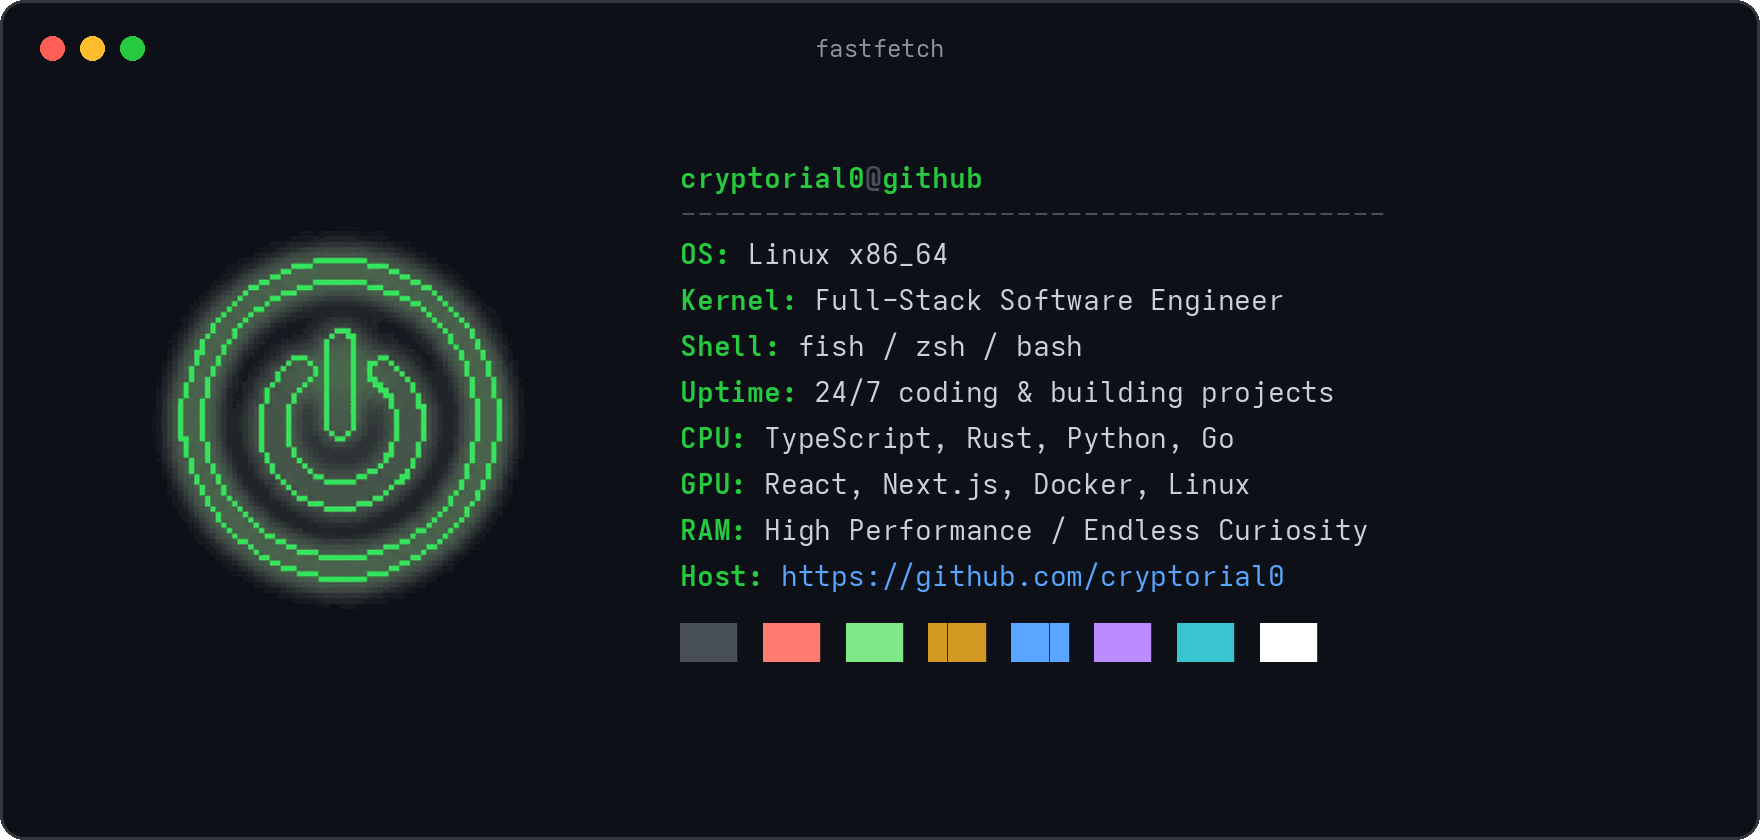
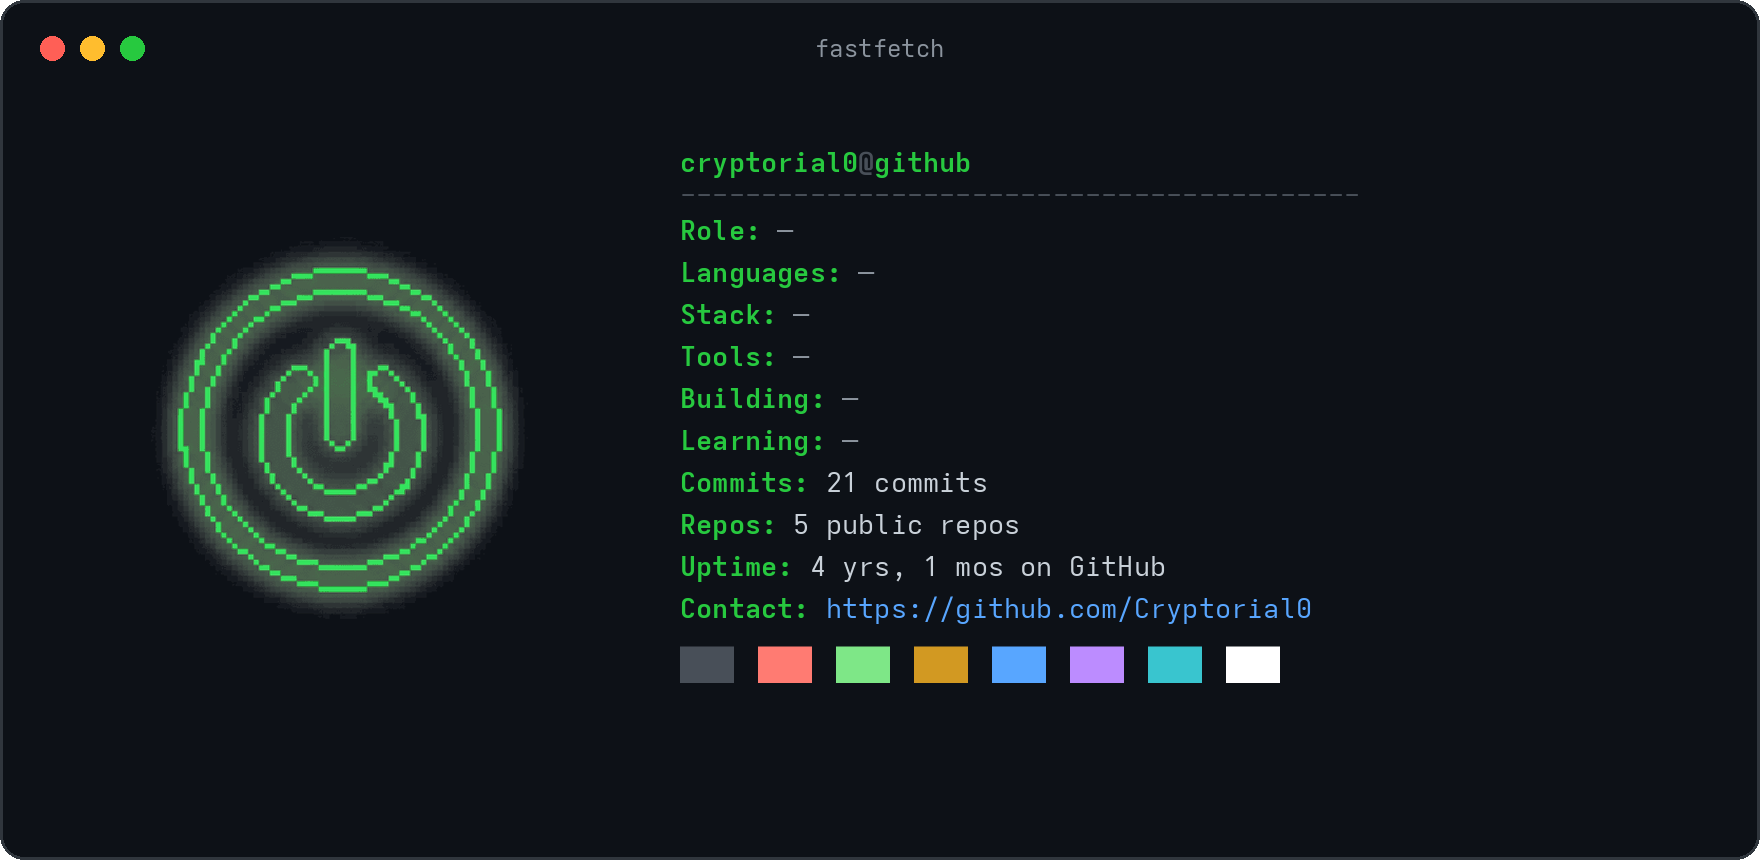
feat: add auto-updating commits & github stats with daily GitHub Action workflow

diff --git a/generate_card.py b/generate_card.py
@@ -1,18 +1,69 @@
+import os
+import json
+import urllib.request
+import datetime
 from PIL import Image, ImageDraw, ImageFont
 import numpy as np
 
-# 1. Process logo: convert black pixels to transparent alpha so the neon glow blends smoothly
+# ================= USER CONFIGURATION ================= #
+# Fill in any fields you want (or leave them empty):
+ROLE        = ""   # e.g. "Full-Stack Software Engineer"
+LANGUAGES   = ""   # e.g. "TypeScript, Python, Rust, Go"
+STACK       = ""   # e.g. "React, Next.js, Node.js, Tailwind"
+TOOLS       = ""   # e.g. "Linux, Docker, Neovim, Git"
+BUILDING    = ""   # e.g. "Open source developer tools"
+LEARNING    = ""   # e.g. "Distributed Systems & AI Agents"
+CONTACT     = ""   # e.g. "your_email@domain.com"
+# ====================================================== #
+
+# 1. Fetch live GitHub statistics
+USERNAME = "Cryptorial0"
+headers = {'User-Agent': 'fastfetch-generator'}
+token = os.environ.get('GITHUB_TOKEN')
+if token:
+    headers['Authorization'] = f'Bearer {token}'
+
+# Default fallback values
+public_repos = "5"
+total_commits = "21"
+uptime_str = "4 years"
+
+try:
+    user_url = f"https://api.github.com/users/{USERNAME}"
+    req = urllib.request.Request(user_url, headers=headers)
+    with urllib.request.urlopen(req, timeout=5) as resp:
+        user_data = json.loads(resp.read().decode())
+        public_repos = str(user_data.get('public_repos', public_repos))
+        
+        # Calculate uptime from join date
+        created_at_str = user_data.get('created_at')
+        if created_at_str:
+            created_at = datetime.datetime.strptime(created_at_str, "%Y-%m-%dT%H:%M:%SZ")
+            now = datetime.datetime.utcnow()
+            days = (now - created_at).days
+            years = days // 365
+            months = (days % 365) // 30
+            uptime_str = f"{years} yrs, {months} mos on GitHub"
+
+    # Commit count
+    commits_url = f"https://api.github.com/search/commits?q=author:{USERNAME}"
+    req_c = urllib.request.Request(commits_url, headers={**headers, 'Accept': 'application/vnd.github.cloak-preview'})
+    with urllib.request.urlopen(req_c, timeout=5) as resp_c:
+        commits_data = json.loads(resp_c.read().decode())
+        total_commits = f"{commits_data.get('total_count', total_commits):,}"
+except Exception as e:
+    print(f"Warning fetching live GitHub stats: {e}")
+
+# 2. Process Logo with alpha transparency for green glow
 logo = Image.open('logo512.png').convert('RGBA')
 arr = np.array(logo, dtype=np.float32)
 r, g, b = arr[..., 0], arr[..., 1], arr[..., 2]
 brightness = np.maximum(g, np.maximum(r, b))
-
-# Set alpha based on brightness: black background (0) becomes 0 alpha
 arr[..., 3] = np.clip(brightness * 1.6, 0, 255)
 logo_transparent = Image.fromarray(arr.astype(np.uint8), mode='RGBA')
 
-# 2. Canvas size (2x retina: 1760 x 840)
-W, H = 1760, 840
+# 3. Canvas setup (2x retina: 1760 x 860)
+W, H = 1760, 860
 img = Image.new('RGBA', (W, H), (0, 0, 0, 0))
 draw = ImageDraw.Draw(img)
 
@@ -27,24 +78,24 @@ draw.ellipse([120, 36, 144, 60], fill='#27c93f')
 # Header Title font
 try:
     font_header = ImageFont.truetype('/usr/share/fonts/Adwaita/AdwaitaMono-Regular.ttf', 24)
-    font_bold = ImageFont.truetype('/usr/share/fonts/Adwaita/AdwaitaMono-Bold.ttf', 28)
-    font_regular = ImageFont.truetype('/usr/share/fonts/Adwaita/AdwaitaMono-Regular.ttf', 28)
-    font_blocks = ImageFont.truetype('/usr/share/fonts/noto/NotoSansMono-Bold.ttf', 32)
+    font_bold = ImageFont.truetype('/usr/share/fonts/Adwaita/AdwaitaMono-Bold.ttf', 27)
+    font_regular = ImageFont.truetype('/usr/share/fonts/Adwaita/AdwaitaMono-Regular.ttf', 27)
+    font_blocks = ImageFont.truetype('/usr/share/fonts/noto/NotoSansMono-Bold.ttf', 30)
 except Exception:
     font_header = font_bold = font_regular = font_blocks = ImageFont.load_default()
 
 # Window Title
 draw.text((W // 2, 48), 'fastfetch', fill='#8b949e', font=font_header, anchor='mm')
 
-# Paste seamless transparent logo directly onto terminal background
+# Paste seamless transparent logo on the left
 logo_size = 540
 logo_resized = logo_transparent.resize((logo_size, logo_size), Image.Resampling.LANCZOS)
-img.paste(logo_resized, (70, 150), logo_resized)
+img.paste(logo_resized, (70, 160), logo_resized)
 
-# Right side fastfetch text
+# Right side fastfetch modules
 x_text = 680
-y_start = 160
-line_height = 46
+y_start = 145
+line_height = 42
 
 # Title: cryptorial0@github
 draw.text((x_text, y_start), 'cryptorial0', fill='#27c93f', font=font_bold)
@@ -54,37 +105,39 @@ w_at = draw.textlength('@', font=font_bold)
 draw.text((x_text + w_user + w_at, y_start), 'github', fill='#27c93f', font=font_bold)
 
 # Separator
-y_cur = y_start + 36
+y_cur = y_start + 32
 draw.text((x_text, y_cur), '------------------------------------------', fill='#484f58', font=font_regular)
 
-# Modules (From your config.jsonc)
+# Modules List: Auto-updating stats + Customizable fields
 modules = [
-    ('OS: ', 'Linux x86_64'),
-    ('Kernel: ', 'Full-Stack Software Engineer'),
-    ('Shell: ', 'fish / zsh / bash'),
-    ('Uptime: ', '24/7 coding & building projects'),
-    ('CPU: ', 'TypeScript, Rust, Python, Go'),
-    ('GPU: ', 'React, Next.js, Docker, Linux'),
-    ('RAM: ', 'High Performance / Endless Curiosity'),
-    ('Host: ', 'https://github.com/cryptorial0')
+    ('Role: ', ROLE),
+    ('Languages: ', LANGUAGES),
+    ('Stack: ', STACK),
+    ('Tools: ', TOOLS),
+    ('Building: ', BUILDING),
+    ('Learning: ', LEARNING),
+    ('Commits: ', f"{total_commits} commits"),
+    ('Repos: ', f"{public_repos} public repos"),
+    ('Uptime: ', uptime_str),
+    ('Contact: ', CONTACT if CONTACT else f"https://github.com/{USERNAME}")
 ]
 
-y_cur += 40
+y_cur += 36
 for key, val in modules:
     draw.text((x_text, y_cur), key, fill='#27c93f', font=font_bold)
     w_key = draw.textlength(key, font=font_bold)
-    val_color = '#58a6ff' if key == 'Host: ' else '#c9d1d9'
-    draw.text((x_text + w_key, y_cur), val, fill=val_color, font=font_regular)
+    val_text = val if val else "—"
+    val_color = '#58a6ff' if ('https://' in val_text or '@' in val_text) else ('#8b949e' if val_text == "—" else '#c9d1d9')
+    draw.text((x_text + w_key, y_cur), val_text, fill=val_color, font=font_regular)
     y_cur += line_height
 
 # Palette color blocks
-y_cur += 15
+y_cur += 10
 palette = ['#484f58', '#ff7b72', '#7ee787', '#d29922', '#58a6ff', '#bc8cff', '#39c5cf', '#ffffff']
 x_block = x_text
 for color in palette:
     draw.text((x_block, y_cur), '███ ', fill=color, font=font_blocks)
     x_block += draw.textlength('███ ', font=font_blocks) + 6
 
-# Save as terminal.png (new filename to bypass GitHub Camo cache)
 img.save('terminal.png', 'PNG')
-print('Generated terminal.png successfully!')
+print(f"Generated terminal.png with Commits: {total_commits}, Repos: {public_repos}, Uptime: {uptime_str}")
